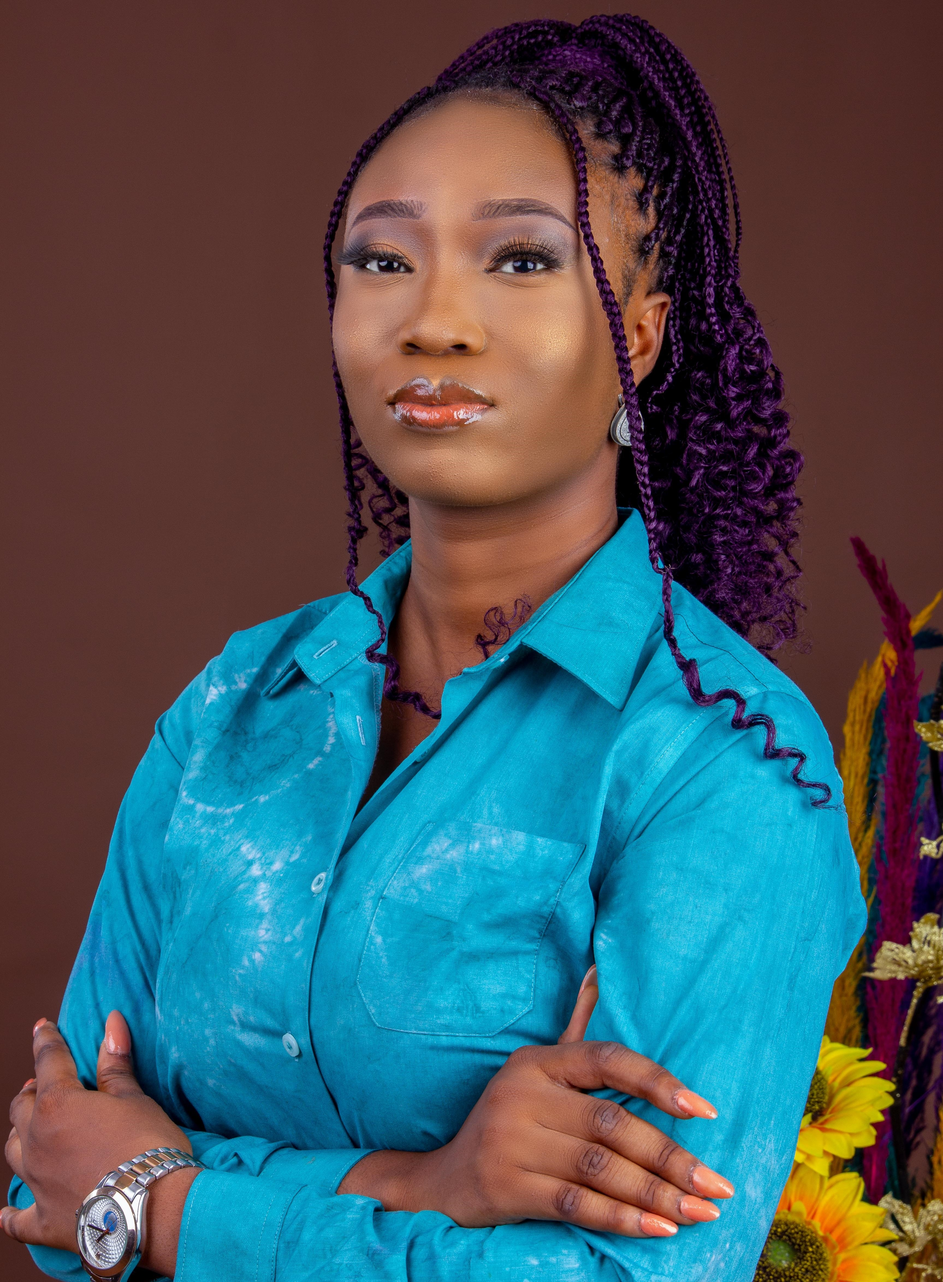
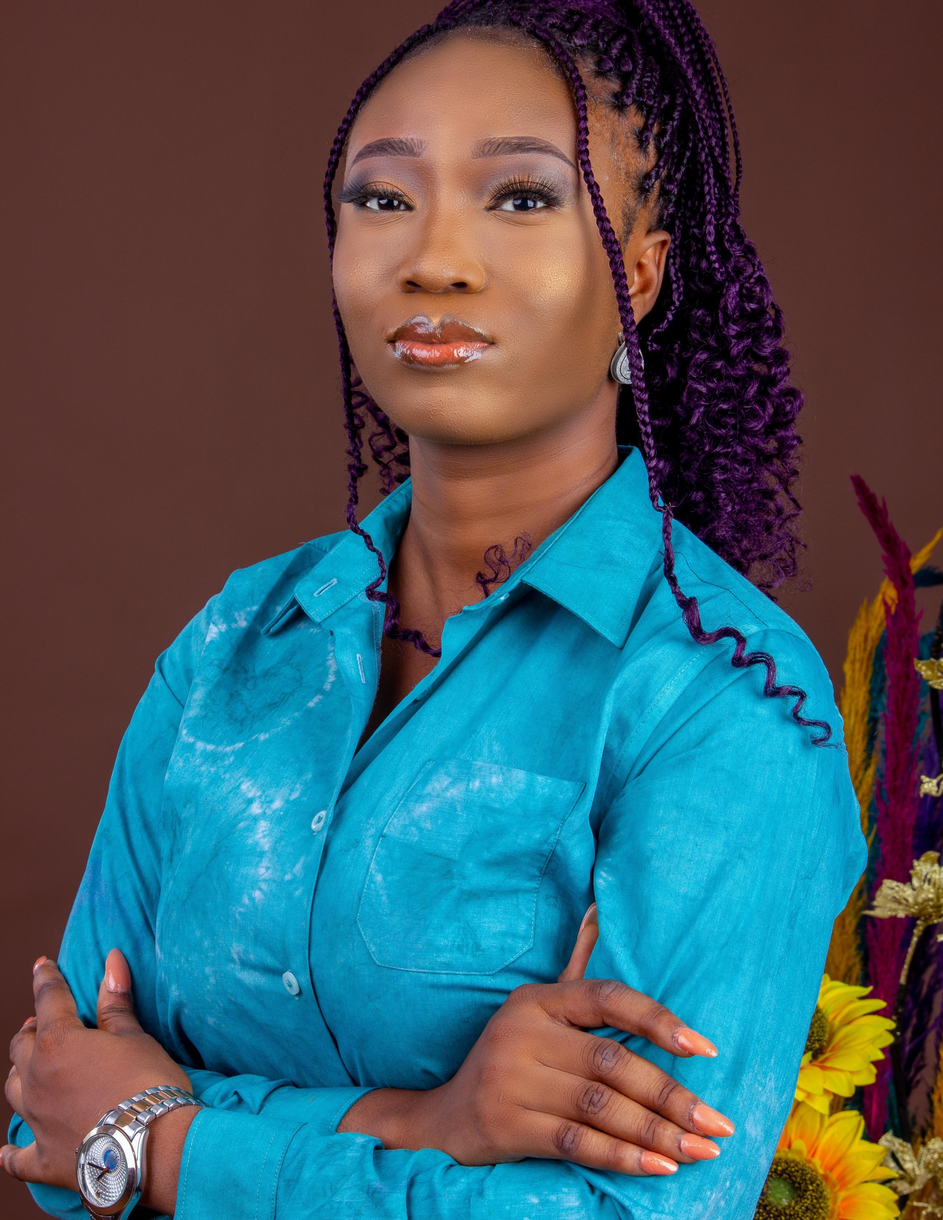
cropped bg image

diff --git a/css/style.css b/css/style.css
@@ -481,7 +481,7 @@ video {
     /* margin-bottom: 10px; */
 }
 .intro-text {
-    /* padding-bottom: 15px; */
+    padding-bottom: 15px;
 }
 }
 @media (max-width: 920px){
